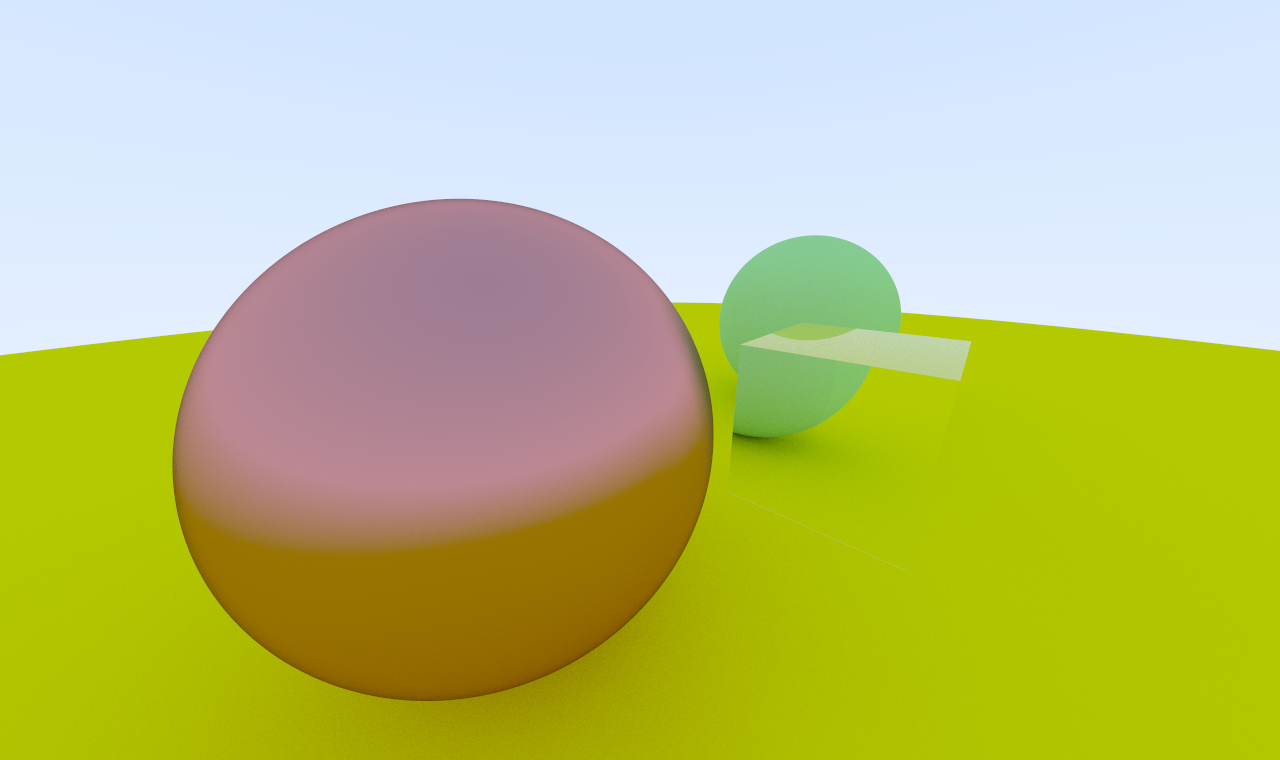
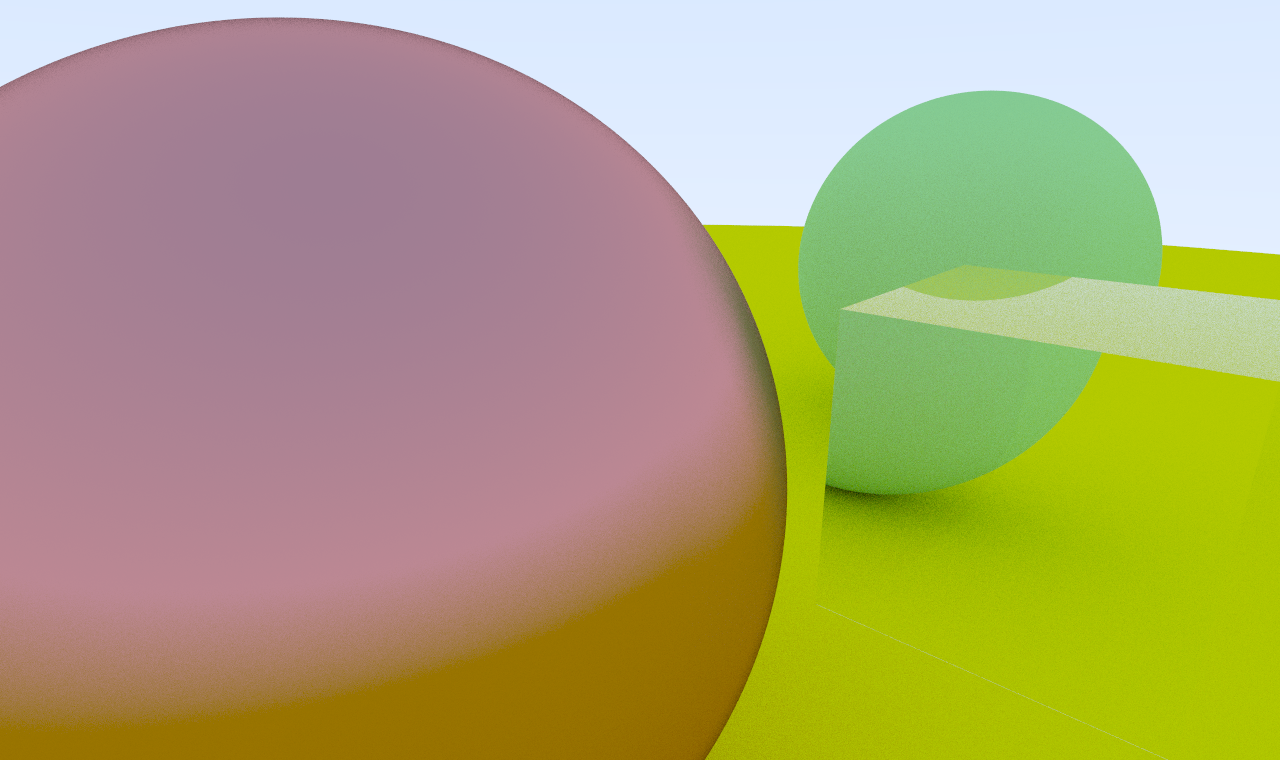
camera fov impl

diff --git a/src/main.rs b/src/main.rs
@@ -7,7 +7,7 @@ use std::{
 
 use lib_rs::{
     color::rgba,
-    geometry::{self, AxisAlignedBox, Sphere},
+    geometry::{self, AxisAlignedBox, Parallelogram, Sphere},
     linear_algebra::vector::vec3,
 };
 use renderer::{Material, MaterialKind, Renderer};
@@ -20,7 +20,7 @@ mod scene;
 
 fn main() {
     // let bar = indicatif::ProgressBar::new((WIDTH * HEIGHT) as u64);
-    let mut camera = Camera::new(1280, 760);
+    let mut camera = Camera::new(1280, 760,90.0);
     camera.move_to(vec3(0.8, 0.4, 0.4));
     camera.look_at(vec3(0.0, 0.0, -0.5));
     // let sphere1 = Sphere::new(vec3(0.0, 0.0, -1.0), 0.5);
@@ -78,10 +78,71 @@ fn main() {
             color: rgba(0.8, 0.8, 0.0, 1.0),
         },
     );
-    let renderer = Renderer::new(&camera, &scene, 250);
+    let renderer = Renderer::new(&camera, &scene, 50);
     let time = Instant::now();
     let pixels = renderer.render();
     println!("Time {} secs.", time.elapsed().as_secs_f32());
     let writer = BufWriter::new(File::create("output.png").unwrap());
     renderer.write(&pixels, writer);
 }
+
+
+// fn main() {
+//     // let bar = indicatif::ProgressBar::new((WIDTH * HEIGHT) as u64);
+//     let mut camera = Camera::new(640, 380,80.0);
+//     camera.move_to(vec3(0.0, 0.0, 9.0));
+//     camera.look_at(vec3(0.0, 0.0, 0.0));
+//     // let sphere1 = Sphere::new(vec3(0.0, 0.0, -1.0), 0.5);
+//     // let sphere1 = Sphere::new(vec3(0.0, -100.5, -1.0), 100.0);
+//     // let mut geometries = vec![sphere];
+//     let mut scene = Scene::new();
+
+//     scene.add(
+//         // left red
+//         Parallelogram::new(vec3(-3.0,-2.,5.),vec3(0.,0.,-4.),vec3(0.,4.,0.)),
+//         Material{
+//             kind:MaterialKind::Lambertian,
+//             color:rgba(1.0,0.2,0.2,1.0)
+//         }
+//     );
+//     scene.add(
+//         // back green
+//         Parallelogram::new(vec3(-2.,-2., 0.), vec3(4., 0., 0.), vec3(0., 4., 0.)),
+//         Material{
+//             kind:MaterialKind::Lambertian,
+//             color:rgba(0.2,1.0,0.2,1.0)
+//         }
+//     );
+//     scene.add(
+//         // right blue
+//         Parallelogram::new(vec3(3.,-2., 1.), vec3(0., 0., 4.), vec3(0., 4., 0.)),
+//         Material{
+//             kind:MaterialKind::Lambertian,
+//             color:rgba(0.2, 0.2, 1.0,1.0)
+//         }
+//     );
+//     scene.add(
+//         // upper orange
+//         Parallelogram::new(vec3(-2.,3.,1.), vec3(4., 0., 0.), vec3(0., 0., 4.)),
+//         Material{
+//             kind:MaterialKind::Lambertian,
+//             color:rgba(1.0, 0.5, 0.0,1.0)
+//         }
+//     );
+
+//     scene.add(
+//         // lower teal
+//         Parallelogram::new(vec3(-2.,-3., 5.), vec3(4., 0., 0.), vec3(0., 0., -4.)),
+//         Material{
+//             kind:MaterialKind::Lambertian,
+//             color:rgba(0.2, 0.8, 0.8,1.0)
+//         }
+//     );
+   
+//     let renderer = Renderer::new(&camera, &scene, 50);
+//     let time = Instant::now();
+//     let pixels = renderer.render();
+//     println!("Time {} secs.", time.elapsed().as_secs_f32());
+//     let writer = BufWriter::new(File::create("output.png").unwrap());
+//     renderer.write(&pixels, writer);
+// }

diff --git a/src/camera.rs b/src/camera.rs
@@ -1,6 +1,7 @@
+use std::f32::{self, consts::PI};
+
 use lib_rs::{linear_algebra::{vector::{cross, vec3}, Vector3}, ray::Ray};
 
-const VIEWPORT_HEIGHT_3D: f32 = 2.0;
 
 #[derive(Debug)]
 pub struct Camera {
@@ -10,18 +11,20 @@ pub struct Camera {
     pixel_delta_u: Vector3,
     pixel_delta_v: Vector3,
     pixel_0_loc: Vector3,
+    // vertical field of view in degrees
+    fov:f32,
     /// near plane
     viewport_size: (f32, f32),
 }
 impl Camera {
-    pub fn new(width: u32, height: u32) -> Self {
+    pub fn new(width: u32, height: u32, fov:f32) -> Self {
         let aspect_ratio = width as f32 / height as f32;
         let center = Vector3::ZERO;
         let view_dir = vec3(0.0, 0.0, -1.0);
 
         // near plane
         let (pixel_0_loc, pixel_delta_u, pixel_delta_v, viewport_size) =
-            Self::calc_near_plane_values(center, view_dir, aspect_ratio, (width, height));
+            Self::calc_near_plane_values(center, view_dir, aspect_ratio, fov,(width, height));
         Self {
             aspect_ratio,
             frame_size: (width, height),
@@ -30,6 +33,7 @@ impl Camera {
             pixel_delta_u,
             pixel_delta_v,
             viewport_size,
+            fov
         }
     }
 
@@ -37,14 +41,18 @@ impl Camera {
         center: Vector3,
         view_dir: Vector3,
         aspect_ratio: f32,
+        fov:f32,
         frame_size: (u32, u32),
     ) -> (Vector3, Vector3, Vector3, (f32, f32)) {
         let dir = view_dir;
         let left = cross(vec3(0.0, 1.0, 0.0), dir).normalize();
         // up direction of the frame in 3d space;
         let up = cross(dir, left);
-        let viewport_size = (VIEWPORT_HEIGHT_3D * aspect_ratio, VIEWPORT_HEIGHT_3D);
-        let pixel_size = 2.0 / (frame_size.1 as f32);
+        const NEAR:f32 = 1.0;
+        let viewport_height = NEAR* (fov*0.5/180.0*PI).tan();
+        dbg!(viewport_height);
+        let viewport_size = (viewport_height * aspect_ratio, viewport_height);
+        let pixel_size = viewport_height / (frame_size.1 as f32);
         let viewport_top_left = center + dir + viewport_size.0/2.0 * left + viewport_size.1/2.0 * up;
         let pixel_delta_u = pixel_size * -left;
         let pixel_delta_v = pixel_size * -up;
@@ -57,7 +65,7 @@ impl Camera {
     }
     pub fn look_at(&mut self, target: Vector3) {
         let dir = (target - self.position).normalize();
-        let (loc_0,delta_u,delta_v,_) = Self::calc_near_plane_values(self.position, dir, self.aspect_ratio, self.frame_size);
+        let (loc_0,delta_u,delta_v,_) = Self::calc_near_plane_values(self.position, dir, self.aspect_ratio, self.fov,self.frame_size);
         self.pixel_0_loc = loc_0;
         self.pixel_delta_u = delta_u;
         self.pixel_delta_v = delta_v;
